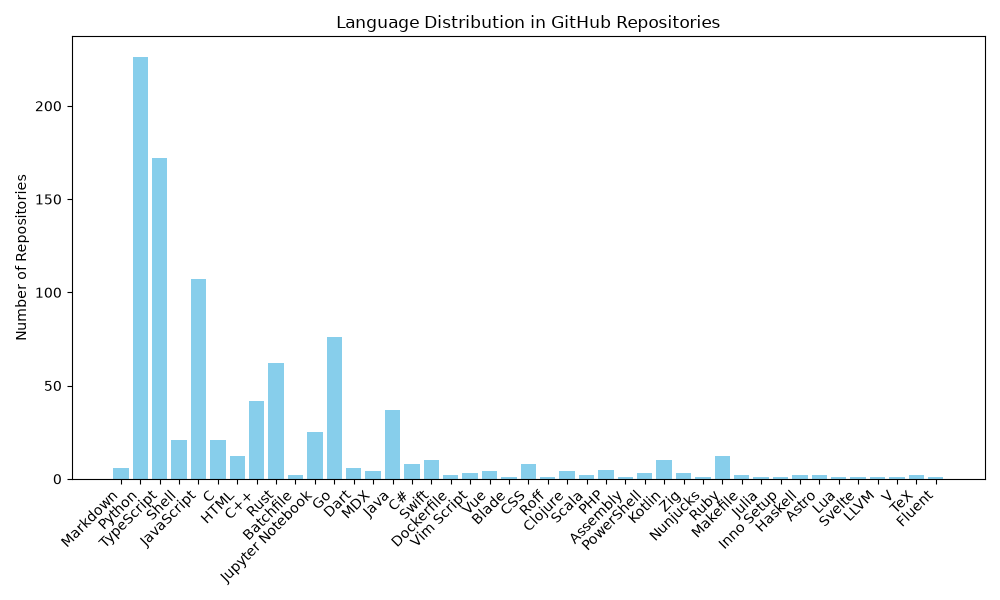
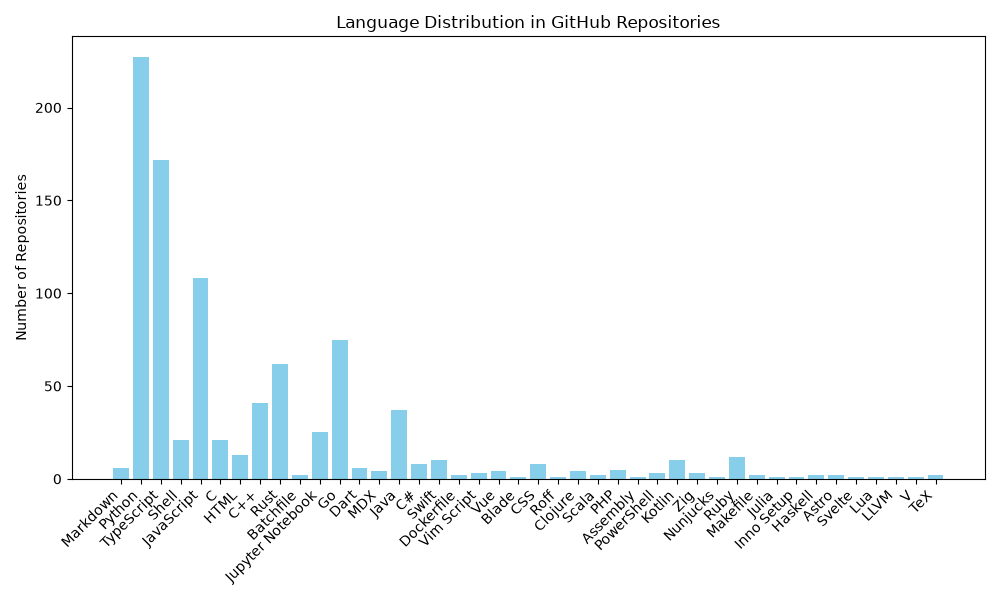
Update language distribution chart

diff --git a/README.md b/README.md
@@ -5,7 +5,7 @@
 Total repositories processed: 912
 
 Language distribution:
-Markdown: 6, Python: 226, TypeScript: 172, Shell: 21, JavaScript: 107, C: 21, HTML: 12, C++: 42, Rust: 62, Batchfile: 2, Jupyter Notebook: 25, Go: 76, Dart: 6, MDX: 4, Java: 37, C#: 8, Swift: 10, Dockerfile: 2, Vim Script: 3, Vue: 4, Blade: 1, CSS: 8, Roff: 1, Clojure: 4, Scala: 2, PHP: 5, Assembly: 1, PowerShell: 3, Kotlin: 10, Zig: 3, Nunjucks: 1, Ruby: 12, Makefile: 2, Julia: 1, Inno Setup: 1, Haskell: 2, Astro: 2, Lua: 1, Svelte: 1, LLVM: 1, V: 1, TeX: 2, Fluent: 1
+Markdown: 6, Python: 227, TypeScript: 172, Shell: 21, JavaScript: 108, C: 21, HTML: 13, C++: 41, Rust: 62, Batchfile: 2, Jupyter Notebook: 25, Go: 75, Dart: 6, MDX: 4, Java: 37, C#: 8, Swift: 10, Dockerfile: 2, Vim Script: 3, Vue: 4, Blade: 1, CSS: 8, Roff: 1, Clojure: 4, Scala: 2, PHP: 5, Assembly: 1, PowerShell: 3, Kotlin: 10, Zig: 3, Nunjucks: 1, Ruby: 12, Makefile: 2, Julia: 1, Inno Setup: 1, Haskell: 2, Astro: 2, Svelte: 1, Lua: 1, LLVM: 1, V: 1, TeX: 2
 
 
-_Last updated: 2026-09-27 03:14:43_
+_Last updated: 2026-10-04 03:54:43_
